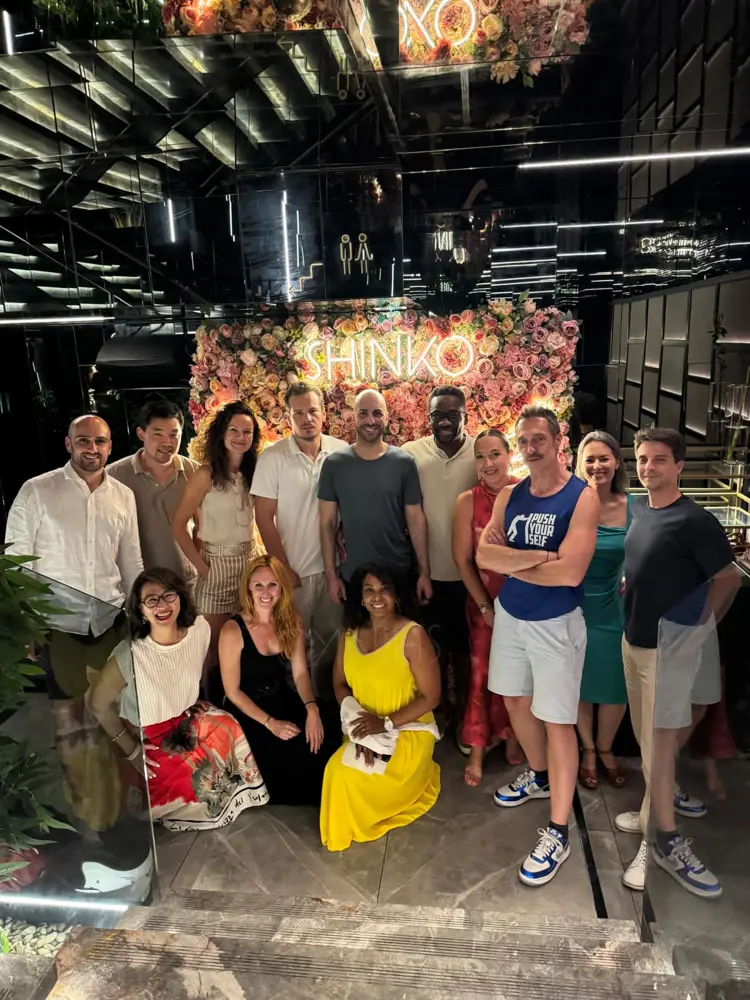
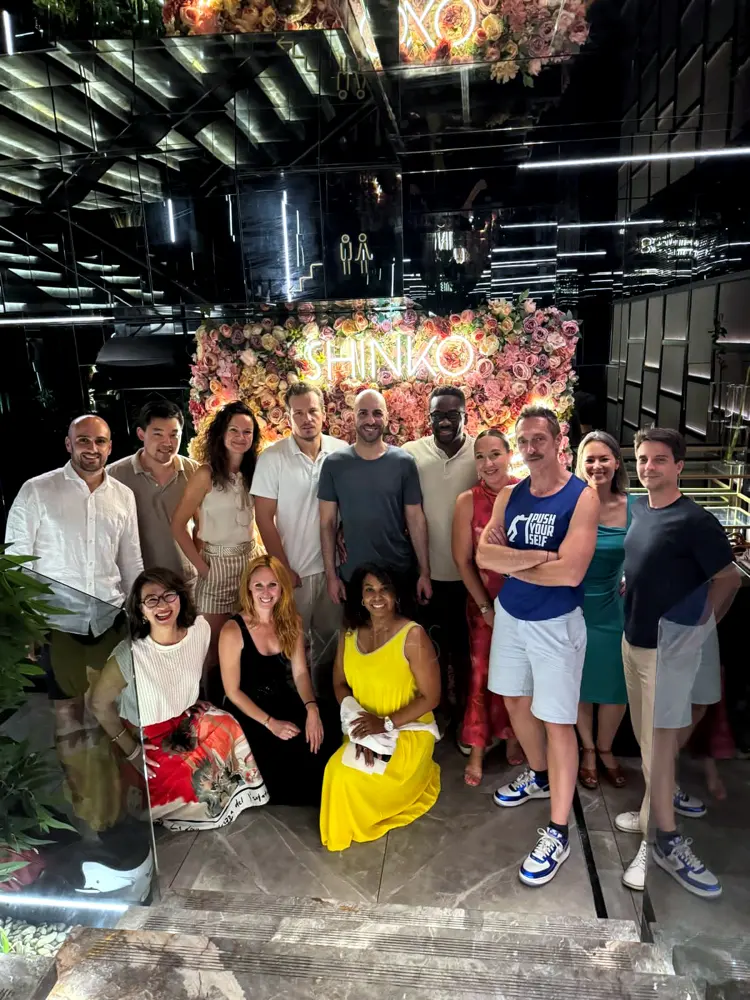
Phrases clés en gras simple, retouche photo Shinko

diff --git a/src/index.css b/src/index.css
@@ -41,6 +41,5 @@ body{font-size:17px;line-height:1.65} p{text-wrap:pretty}
 .polaroid .tape{position:absolute;top:-10px;left:50%;width:84px;height:22px;transform:translateX(-50%) rotate(-3deg);background:rgba(217,106,78,.35);border-radius:2px}
 @media (prefers-reduced-motion:reduce){.polaroid{transition:none}.polaroid:hover{transform:none}}
 
-.hl{background-image:linear-gradient(100deg,rgba(217,106,78,0) 0,rgba(232,135,105,.45) 2%,rgba(240,150,120,.55) 50%,rgba(232,135,105,.48) 97%,rgba(217,106,78,0) 100%);background-size:100% 45%;background-repeat:no-repeat;background-position:0 90%;padding:0 .18em;margin:0 -.08em;border-radius:.3em .5em .4em .6em;-webkit-box-decoration-break:clone;box-decoration-break:clone;color:inherit}
-.hl-title{background-size:100% 40%;background-position:0 88%;padding:0 .12em}
-.bg-ink .hl,.text-creme .hl{background-image:linear-gradient(100deg,rgba(217,106,78,0) 0,rgba(217,106,78,.55) 3%,rgba(217,106,78,.6) 97%,rgba(217,106,78,0) 100%)}
+.hl{font-weight:700;color:#2B2B2B}
+.bg-ink .hl,.text-creme .hl{color:inherit}
